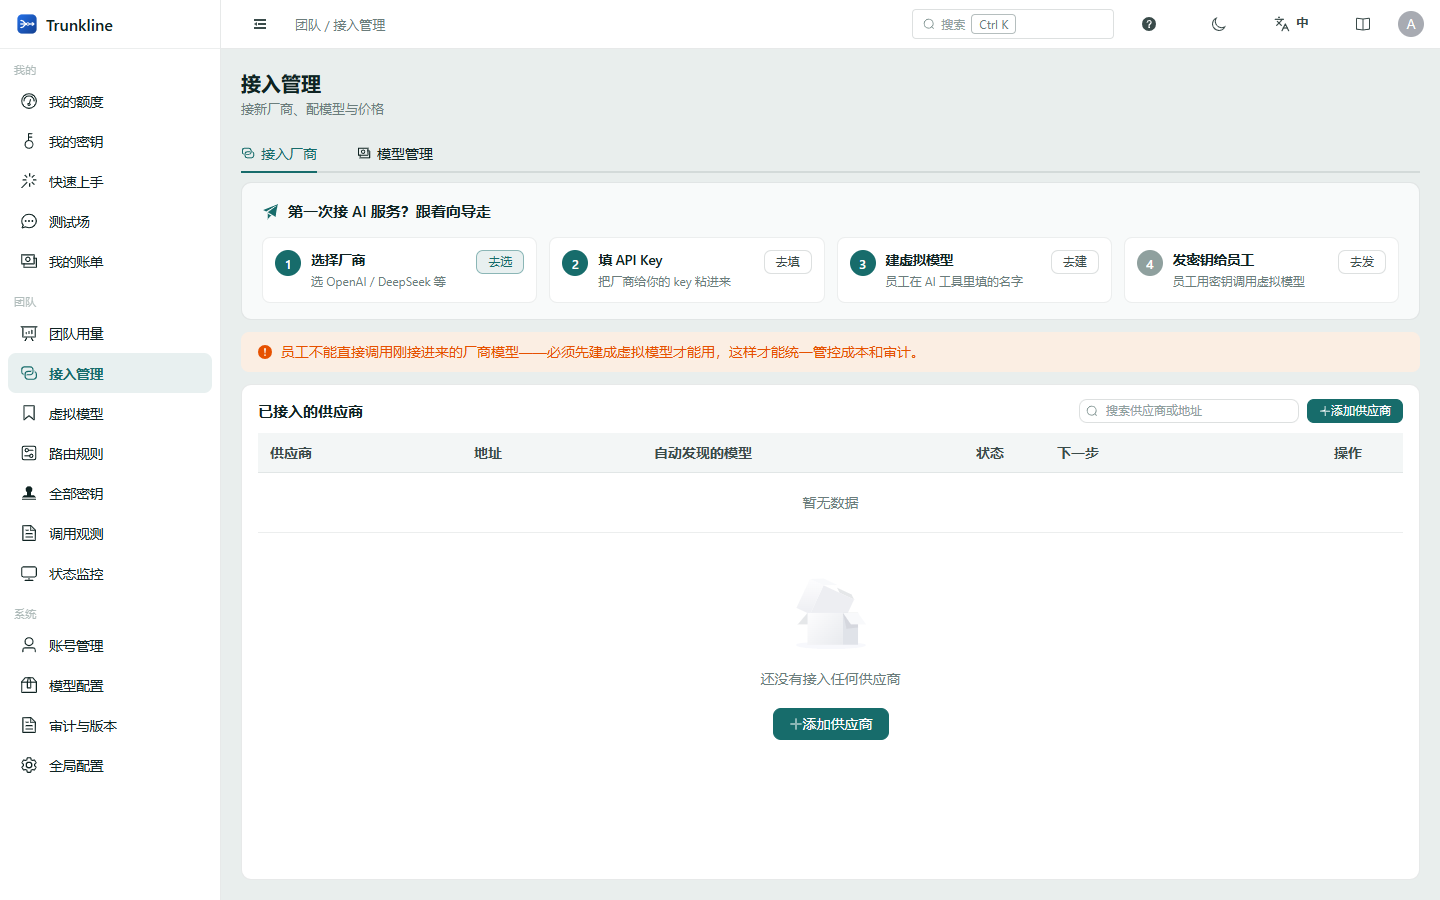
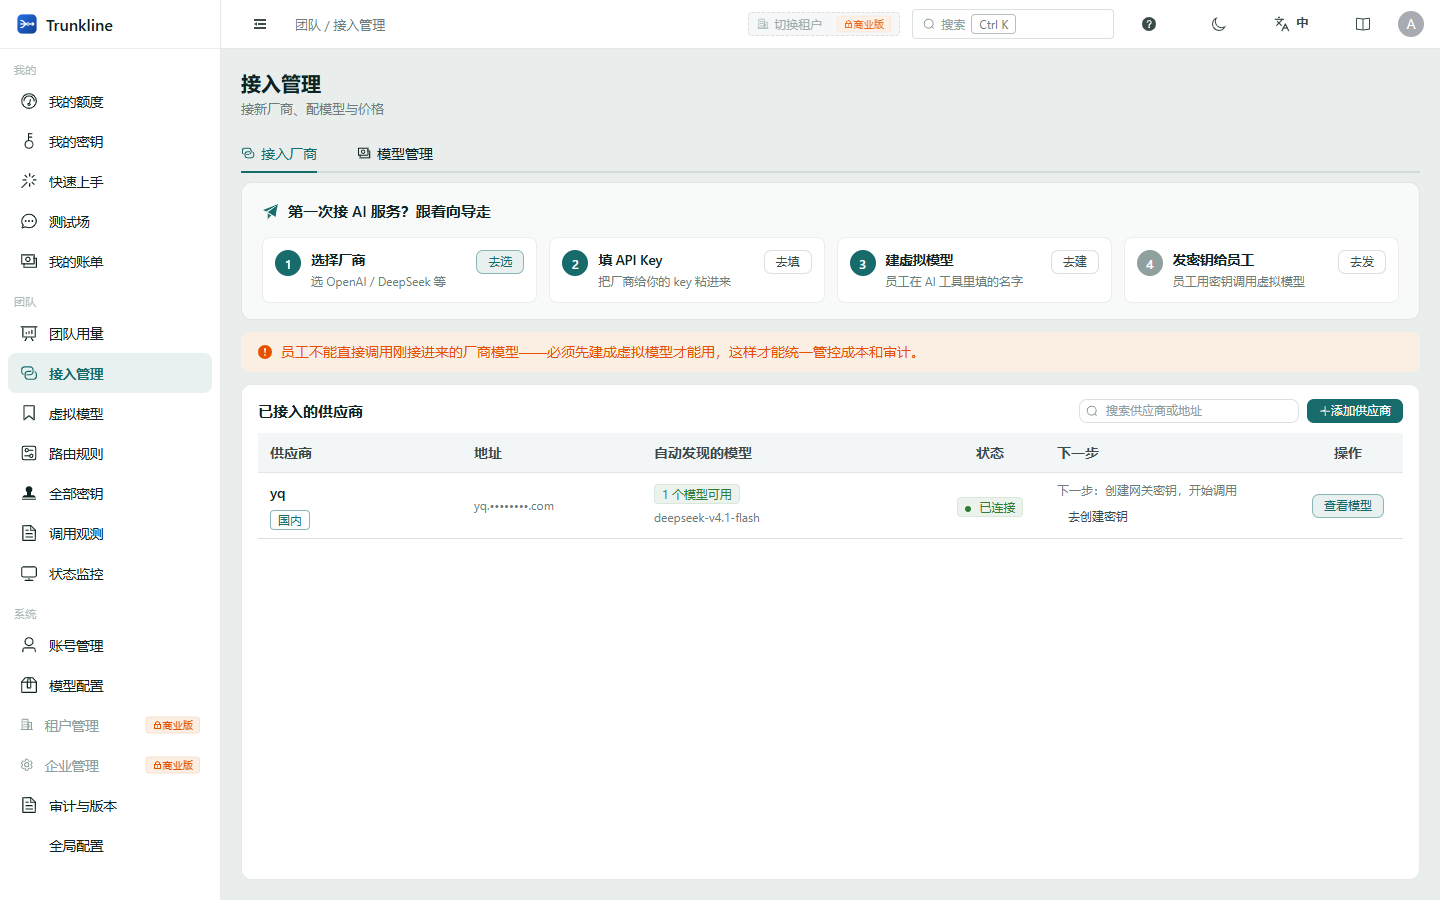
update

diff --git a/README.md b/README.md
@@ -77,23 +77,32 @@ Enough talk — here is the actual 0.1.0 console.
 **13 built-in provider templates, one click to add** (OpenAI, Google Gemini, DeepSeek, Zhipu, Moonshot and more are visible below):
 
 <p align="center">
-  <img src="images/screenshots/06a-model-config-intl.png" alt="Provider templates" width="900">
+  <img src="images/screenshots/06a-model-config-en.png" alt="Provider templates" width="900">
 </p>
 
 **Staff get a key and start calling in three steps**; operators add a provider, build a virtual model, then hand it to staff:
 
 <table>
   <tr>
-    <td width="50%" align="center"><img src="images/screenshots/07-quickstart.png" alt="Quick start" width="100%"><br><sub>Staff quick start: get a key → wait for access → copy the config</sub></td>
-    <td width="50%" align="center"><img src="images/screenshots/02-providers.png" alt="Provider onboarding" width="100%"><br><sub>Operator onboarding: pick a provider → add a key → build a model → assign to staff</sub></td>
+    <td width="50%" align="center"><img src="images/screenshots/07-quickstart-en.png" alt="Quick start" width="100%"><br><sub>Staff quick start: get a key → wait for access → copy the config</sub></td>
+    <td width="50%" align="center"><img src="images/screenshots/02-providers-en.png" alt="Provider onboarding" width="100%"><br><sub>Operator onboarding: pick a provider → add a key → build a model → assign to staff</sub></td>
   </tr>
 </table>
 
 **One playground to try chat, semantic search, reranking, speech and images**:
 
 <p align="center">
-  <img src="images/screenshots/03-playground.png" alt="Playground" width="900">
+  <img src="images/screenshots/03-playground-en.png" alt="Playground" width="900">
 </p>
+
+**See your token usage at a glance, and dig into every call with ready-made charts**:
+
+<table>
+  <tr>
+    <td width="50%" align="center"><img src="images/screenshots/01-my-quota-en.png" alt="My quota" width="100%"><br><sub>My Quota: monthly token usage, available models, recent calls</sub></td>
+    <td width="50%" align="center"><img src="images/screenshots/10-analytics-en.png" alt="Call analytics" width="100%"><br><sub>Call analytics: trace volume, latency distribution, success rates</sub></td>
+  </tr>
+</table>
 
 ## Overall roadmap
 
